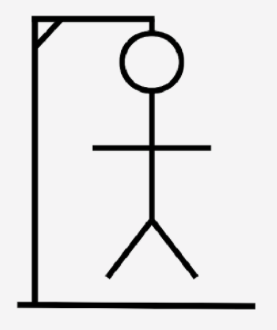
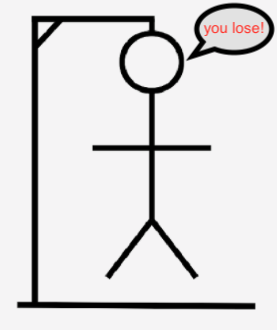
updated

Changed region(s): [[0.6643, 0.0, 1.0, 0.1818]]

diff --git a/index.html b/index.html
@@ -20,7 +20,7 @@
   <div class="jumbotron text-center w-100">
     <h1 class="">
       Doggo Hangman!
-    </h1>
+    </h1 >                                                                                                                                                           
   </div>
 
 
@@ -29,7 +29,7 @@
       <div class="col-md-5">
         <div class="card mb-4" id="card">
           <div class="card-header text-center" id="card-head">
-            <h3>Player Stats:</h3>
+            <h3>Player Stats</h3>
           </div>
           <div class="card-body">
             <div class="card-text text-center">
@@ -54,7 +54,7 @@
 
         <div class="card mb-5" id="card">
           <div class="card-header text-center" id="card-head">
-            <h3>Game Info:</h3>
+            <h3>Game Info</h3>
           </div>
           <div class="card-body">
             <div class="card-text text-center">
@@ -93,44 +93,43 @@
 
             <div class="my-3" id="buttons-list">
               <div>
-                <button type="button" id="let-q" class="btn-lg my-1 letterBtn button-class">Q</button>
-                <button type="button" id="let-w" class="btn-lg my-1 letterBtn button-class">W</button>
-                <button type="button" id="let-e" class="btn-lg my-1 letterBtn button-class">E</button>
-                <button type="button" id="let-r" class="btn-lg my-1 letterBtn button-class">R</button>
-                <button type="button" id="let-t" class="btn-lg my-1 letterBtn button-class">T</button>
-                <button type="button" id="let-y" class="btn-lg my-1 letterBtn button-class">Y</button>
-                <button type="button" id="let-u" class="btn-lg my-1 letterBtn button-class">U</button>
-                <button type="button" id="let-i" class="btn-lg my-1 letterBtn button-class">I</button>
-                <button type="button" id="let-o" class="btn-lg my-1 letterBtn button-class">O</button>
-                <button type="button" id="let-p" class="btn-lg my-1 letterBtn button-class">P</button>
+                <button type="button" id="let-q" class="btn-lg my-1 letterBtn button-class" >Q</button>
+                <button type="button" id="let-w" class="btn-lg my-1 letterBtn button-class" >W</button>
+                <button type="button" id="let-e" class="btn-lg my-1 letterBtn button-class" >E</button>
+                <button type="button" id="let-r" class="btn-lg my-1 letterBtn button-class" >R</button>
+                <button type="button" id="let-t" class="btn-lg my-1 letterBtn button-class" >T</button>
+                <button type="button" id="let-y" class="btn-lg my-1 letterBtn button-class" >Y</button>
+                <button type="button" id="let-u" class="btn-lg my-1 letterBtn button-class" >U</button>
+                <button type="button" id="let-i" class="btn-lg my-1 letterBtn button-class" >I</button>
+                <button type="button" id="let-o" class="btn-lg my-1 letterBtn button-class" >O</button>
+                <button type="button" id="let-p" class="btn-lg my-1 letterBtn button-class" >P</button>
               </div>
 
               <div>
-                <button type="button" id="let-a" class="btn-lg my-1 letterBtn button-class">A</button>
-                <button type="button" id="let-s" class="btn-lg my-1 letterBtn button-class">S</button>
-                <button type="button" id="let-d" class="btn-lg my-1 letterBtn button-class">D</button>
-                <button type="button" id="let-f" class="btn-lg my-1 letterBtn button-class">F</button>
-                <button type="button" id="let-g" class="btn-lg my-1 letterBtn button-class">G</button>
-                <button type="button" id="let-h" class="btn-lg my-1 letterBtn button-class">H</button>
-                <button type="button" id="let-j" class="btn-lg my-1 letterBtn button-class">J</button>
-                <button type="button" id="let-k" class="btn-lg my-1 letterBtn button-class">K</button>
-                <button type="button" id="let-l" class="btn-lg my-1 letterBtn button-class">L</button>
+                <button type="button" id="let-a" class="btn-lg my-1 letterBtn button-class" >A</button>
+                <button type="button" id="let-s" class="btn-lg my-1 letterBtn button-class" >S</button>
+                <button type="button" id="let-d" class="btn-lg my-1 letterBtn button-class" >D</button>
+                <button type="button" id="let-f" class="btn-lg my-1 letterBtn button-class" >F</button>
+                <button type="button" id="let-g" class="btn-lg my-1 letterBtn button-class" >G</button>
+                <button type="button" id="let-h" class="btn-lg my-1 letterBtn button-class" >H</button>
+                <button type="button" id="let-j" class="btn-lg my-1 letterBtn button-class" >J</button>
+                <button type="button" id="let-k" class="btn-lg my-1 letterBtn button-class" >K</button>
+                <button type="button" id="let-l" class="btn-lg my-1 letterBtn button-class" >L</button>
               </div>
 
               <div>
-                <button type="button" id="let-z" class="btn-lg my-1 letterBtn button-class">Z</button>
-                <button type="button" id="let-x" class="btn-lg my-1 letterBtn button-class">X</button>
-                <button type="button" id="let-c" class="btn-lg my-1 letterBtn button-class">C</button>
-                <button type="button" id="let-v" class="btn-lg my-1 letterBtn button-class">V</button>
-                <button type="button" id="let-b" class="btn-lg my-1 letterBtn button-class">B</button>
-                <button type="button" id="let-n" class="btn-lg my-1 letterBtn button-class">N</button>
-                <button type="button" id="let-m" class="btn-lg my-1 letterBtn button-class">M</button>
+                <button type="button" id="let-z" class="btn-lg my-1 letterBtn button-class" >Z</button>
+                <button type="button" id="let-x" class="btn-lg my-1 letterBtn button-class" >X</button>
+                <button type="button" id="let-c" class="btn-lg my-1 letterBtn button-class" >C</button>
+                <button type="button" id="let-v" class="btn-lg my-1 letterBtn button-class" >V</button>
+                <button type="button" id="let-b" class="btn-lg my-1 letterBtn button-class" >B</button>
+                <button type="button" id="let-n" class="btn-lg my-1 letterBtn button-class" >N</button>
+                <button type="button" id="let-m" class="btn-lg my-1 letterBtn button-class" >M</button>
               </div>
 
             </div>
 
-
-
+            
             <div>
               <button id="start-button" class="my-1 btn-lg btn-primary mb-4" onclick="newGame">Next Game</button>
             </div>
@@ -143,7 +142,7 @@
         <h5>Copyright &copy; 2018 Daniel Foster</h5>
       </div>
 
-      <script src="./assets/javascript/gametwo.js"></script>
+      <script src="./assets/javascript/game.js"></script>
 
 </body>
 

diff --git a/assets/javascript/game.js b/assets/javascript/game.js
@@ -37,6 +37,7 @@ var pickedWord = "";
 
 // NEW GAME FUNCTION
 document.getElementById("start-button").addEventListener("click", newGame);
+
 function newGame() {
   // reset guessesLeft to 6
   document.getElementById("hangman-image").src =
@@ -76,7 +77,7 @@ function newGame() {
 
 var buttonRef = document.getElementById("buttons-list");
 
-buttonRef.addEventListener("click", function(event) {
+buttonRef.addEventListener("click", function (event) {
   // event.target will be the particular button you clicked
   // console.dir(event.target);
   var buttonClicked = event.target;
@@ -96,21 +97,7 @@ function checkGuess(button) {
   //the letter guessed is equal to the text content of the button clicked
   var letterGuessed = button.textContent.toLowerCase();
 
-  //check to see if the letter guessed is present in the pickedWord
-  //push this letter into the letterGuessed array
 
-  //if the letter is present in the word then push it into the placeholder array
-  //change the class of the button pressed to btn-success
-
-  //write the letter to the dom in the correct location
-  //if the letter isn't in the word then change the button class to btn-danger
-  //switch to the next image in the images array
-
-  // -1 remaining guesses
-  // once zero guesses remaining then you lose
-  //once the placeholder array matches the pickedWord you win
-
-  // if (guessedLetters.indexOf(letterGuessed) === -1)
   if (guessedLetters.indexOf(letterGuessed) === -1) {
     // Run rest of game
     // push guessedLetter into guessedLetters array
@@ -134,39 +121,40 @@ function checkGuess(button) {
     if (guesses === 0) {
       losses++;
       document.getElementById("losses").textContent = losses;
-      // you lose
-    }
-    if (pickedWordPlaceholder.join("") === pickedWordArray.join("")) {
-      wins++;
-      document.getElementById("wins").textContent = wins;
-      // you win
-    }
-    if (guesses === 5) {
-      document.getElementById("hangman-image").src =
-        "./assets/images/hangman-1.png";
-    }
-    if (guesses === 4) {
-      document.getElementById("hangman-image").src =
-        "./assets/images/hangman-2.png";
-    }
-    if (guesses === 3) {
-      document.getElementById("hangman-image").src =
-        "./assets/images/hangman-3.png";
-    }
-    if (guesses === 2) {
-      document.getElementById("hangman-image").src =
-        "./assets/images/hangman-4.png";
-    }
-    if (guesses === 1) {
-      document.getElementById("hangman-image").src =
-        "./assets/images/hangman-5.png";
-    }
-    if (guesses === 0) {
-      document.getElementById("hangman-image").src =
-        "./assets/images/hangman-6.png";
     }
   }
+  if (pickedWordPlaceholder.join("") === pickedWordArray.join("")) {
+    wins++;
+    document.getElementById("wins").textContent = wins;
+    document.getElementById("hangman-image").src =
+      "./assets/images/hangman-win.png";
+  }
+  if (guesses === 5 && pickedWordPlaceholder.join("") != pickedWordArray.join("")) {
+    document.getElementById("hangman-image").src =
+      "./assets/images/hangman-1.png";
+  }
+  if (guesses === 4 && pickedWordPlaceholder.join("") != pickedWordArray.join("")) {
+    document.getElementById("hangman-image").src =
+      "./assets/images/hangman-2.png";
+  }
+  if (guesses === 3 && pickedWordPlaceholder.join("") != pickedWordArray.join("")) {
+    document.getElementById("hangman-image").src =
+      "./assets/images/hangman-3.png";
+  }
+  if (guesses === 2 && pickedWordPlaceholder.join("") != pickedWordArray.join("")) {
+    document.getElementById("hangman-image").src =
+      "./assets/images/hangman-4.png";
+  }
+  if (guesses === 1 && pickedWordPlaceholder.join("") != pickedWordArray.join("")) {
+    document.getElementById("hangman-image").src =
+      "./assets/images/hangman-5.png";
+  }
+  if (guesses === 0 && pickedWordPlaceholder.join("") != pickedWordArray.join("")) {
+    document.getElementById("hangman-image").src =
+      "./assets/images/hangman-6.png";
+  }
 }
+
 
 //----------------------------------------
 
@@ -180,6 +168,7 @@ function resetButtons() {
 }
 // reset GAME FUNCTION
 document.getElementById("reset-button").addEventListener("click", newGame, resetGame);
+
 function resetGame() {
   wins = 0;
   losses = 0;
